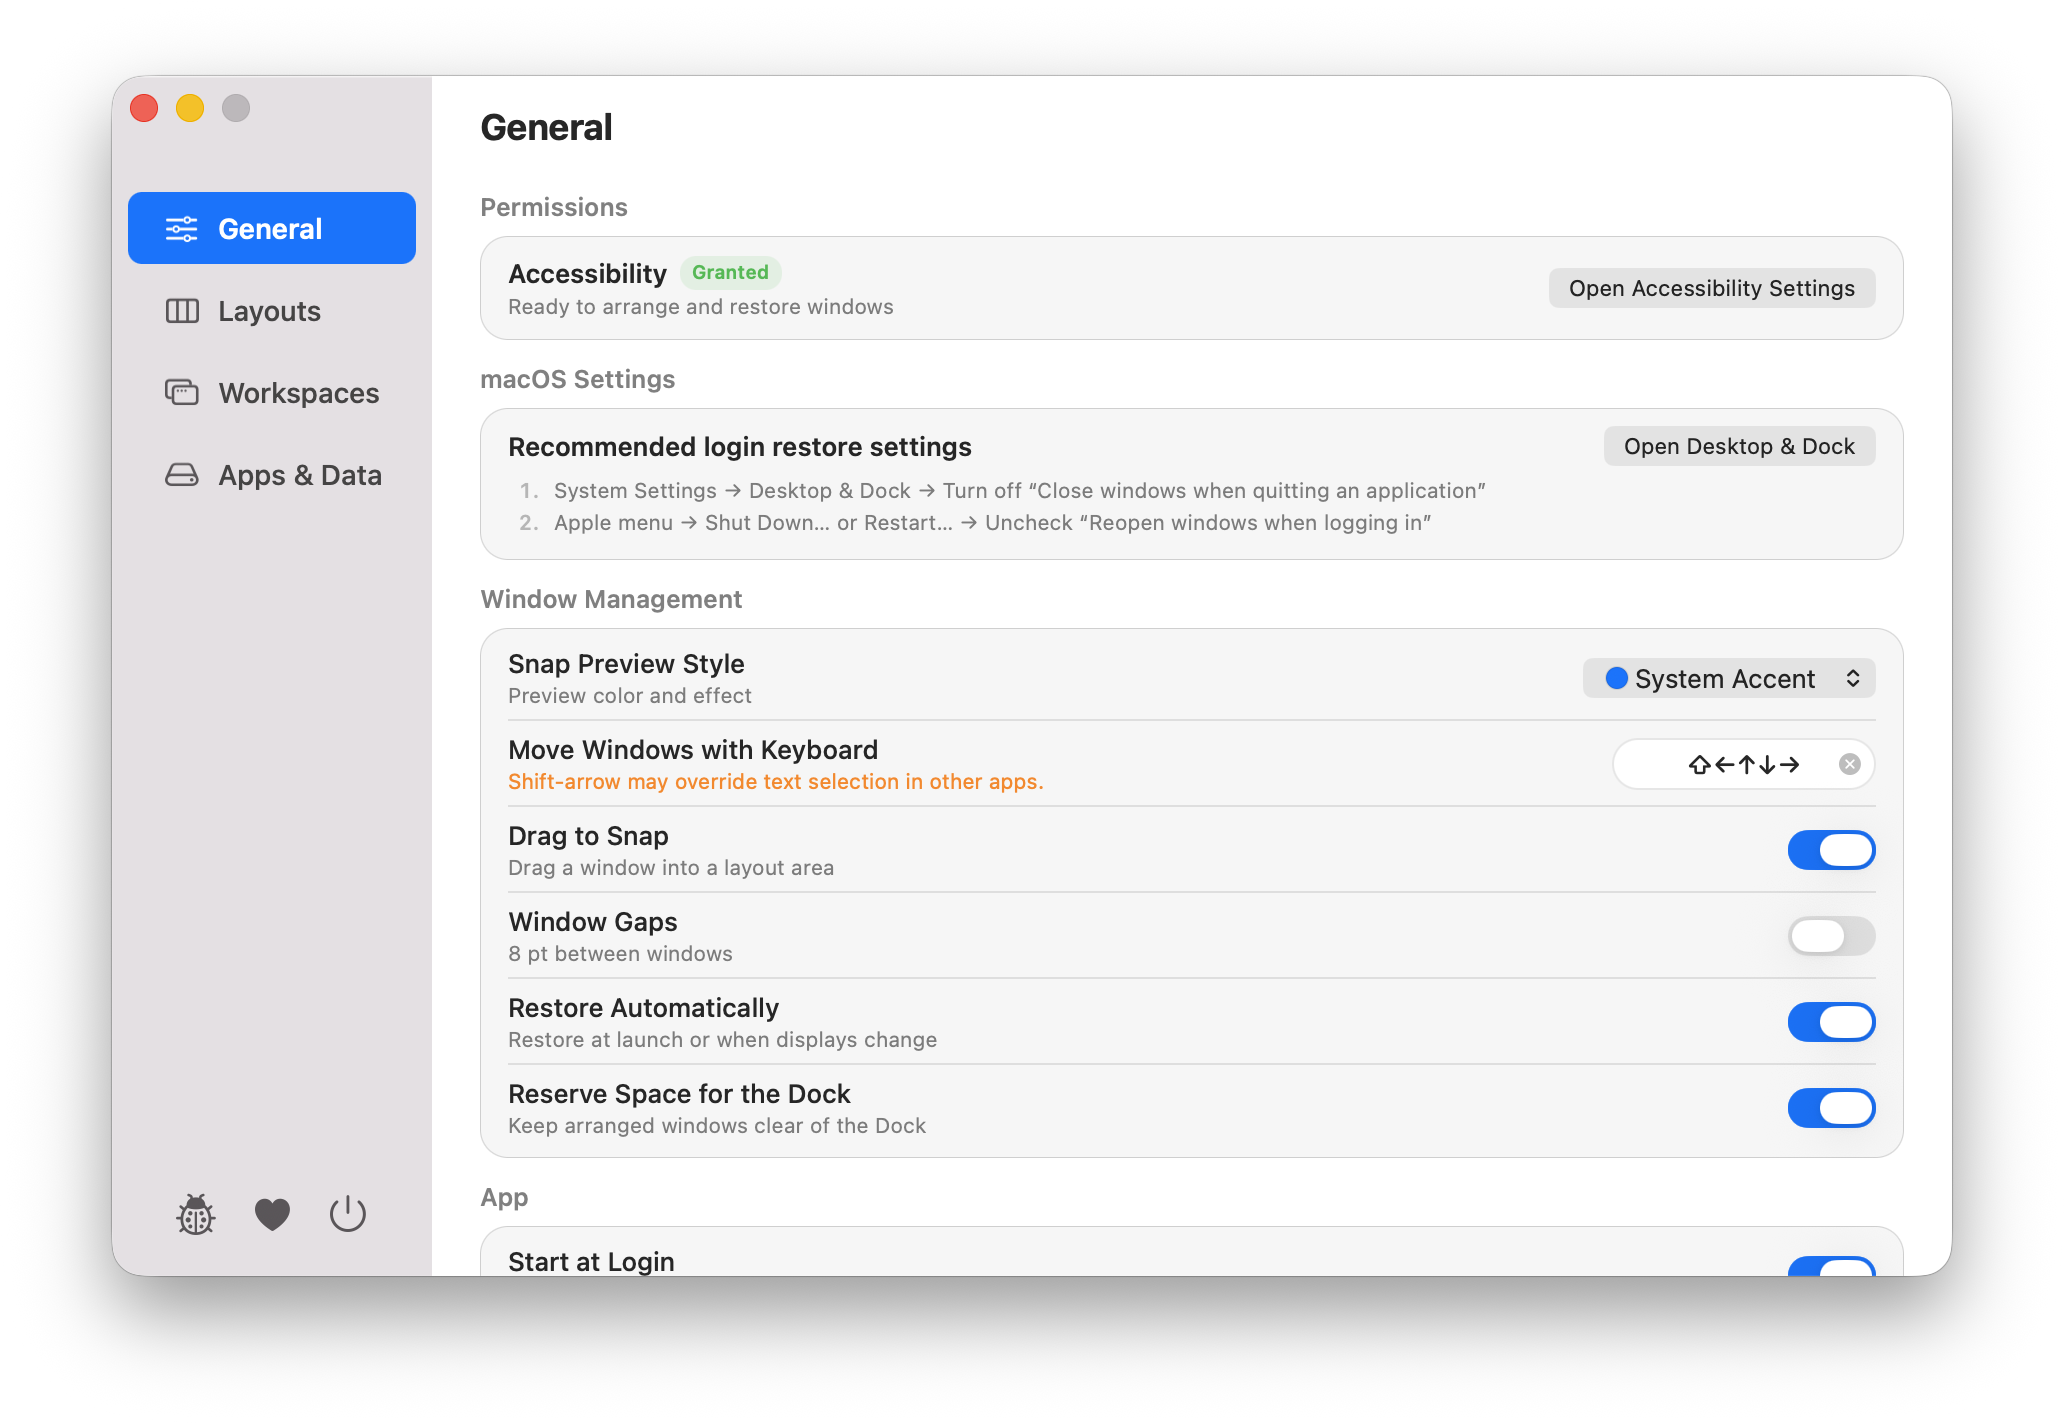
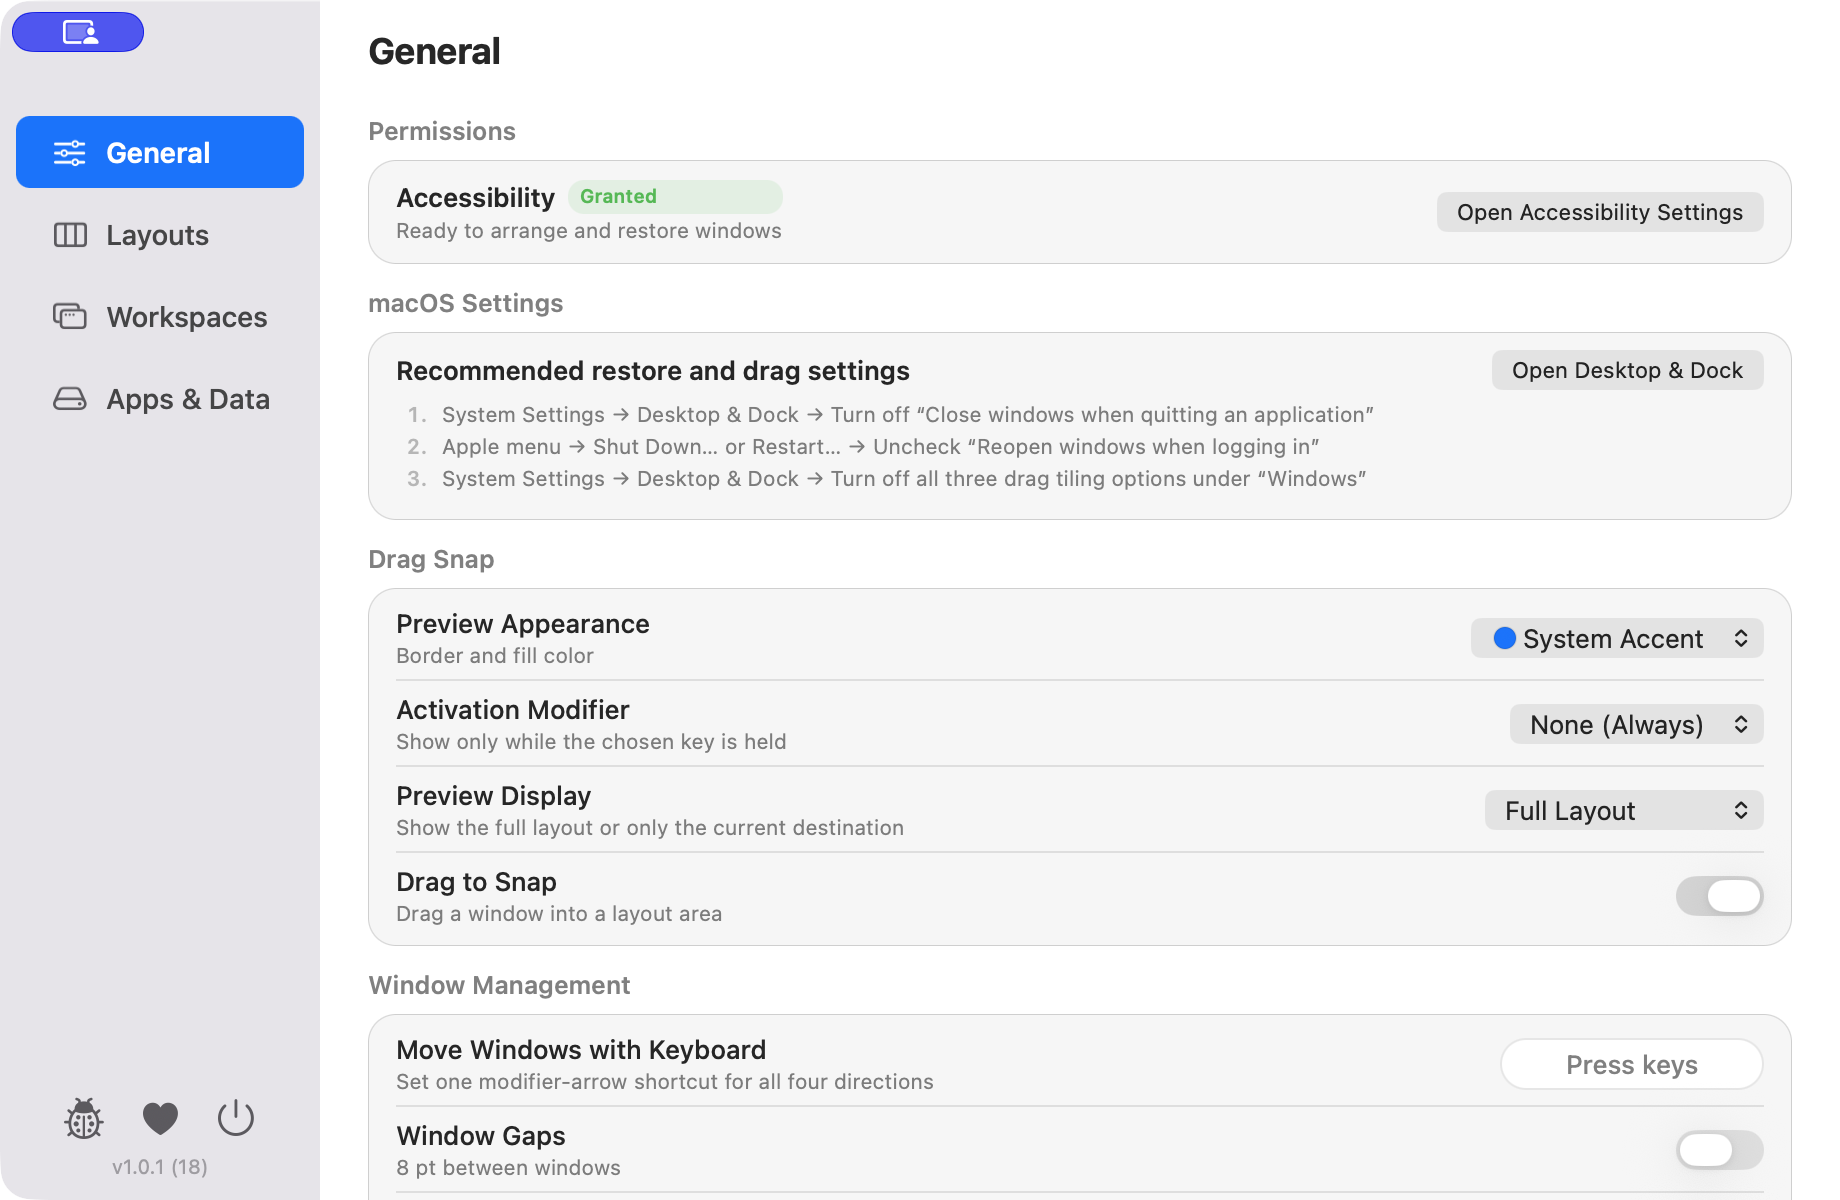
Update release materials for 1.0.1
Refresh the download links, feature summary, bug report version example, and General settings screenshots for Build 18.

Changed region(s): [[0.0, 0.0, 0.9603, 1.0]]

diff --git a/README.md b/README.md
@@ -4,7 +4,7 @@
 
 A macOS menu bar app for arranging windows and restoring an entire workspace in one action.
 
-[Download This is a Window 1.0.0](https://github.com/4celain/this-is-a-window/releases/download/v1.0.0/this-is-a-window-1.0.0-build.17-arm64.dmg) · [View all releases](https://github.com/4celain/this-is-a-window/releases)
+[Download This is a Window 1.0.1](https://github.com/4celain/this-is-a-window/releases/download/v1.0.1/this-is-a-window-1.0.1-build.18-arm64.dmg) · [View all releases](https://github.com/4celain/this-is-a-window/releases)
 
 Requirements: macOS 14 or later · Apple Silicon
 
@@ -22,7 +22,7 @@ Requirements: macOS 14 or later · Apple Silicon
 
 | Area | Included |
 | --- | --- |
-| Window layouts | Display-compatible presets · drag to snap · optional 8 pt gaps · Dock-aware placement |
+| Window layouts | Display-compatible presets · drag to snap with an optional activation modifier · full or destination-only preview · optional 8 pt gaps · Dock-aware placement |
 | Keyboard | Move the focused window through adjacent preset zones with a modifier key and arrow keys |
 | Workspaces | Save, update, and restore · display-specific layouts · exclude saved apps |
 | Multiple windows | Conservatively match supported windows from the same app |
@@ -78,7 +78,7 @@ All features are free. If the app is useful, you can support development with a 
 
 창을 정해진 위치에 배치하고 저장한 작업공간 전체를 한 번에 복원하는 macOS 메뉴 막대 앱입니다.
 
-[This is a Window 1.0.0 다운로드](https://github.com/4celain/this-is-a-window/releases/download/v1.0.0/this-is-a-window-1.0.0-build.17-arm64.dmg) · [모든 릴리스 보기](https://github.com/4celain/this-is-a-window/releases)
+[This is a Window 1.0.1 다운로드](https://github.com/4celain/this-is-a-window/releases/download/v1.0.1/this-is-a-window-1.0.1-build.18-arm64.dmg) · [모든 릴리스 보기](https://github.com/4celain/this-is-a-window/releases)
 
 지원 환경: macOS 14 이상 · Apple Silicon
 
@@ -96,7 +96,7 @@ All features are free. If the app is useful, you can support development with a 
 
 | 영역 | 지원 내용 |
 | --- | --- |
-| 창 배치 | 모니터 환경에 맞는 고정 프리셋 · 드래그 배치 · 선택적 8 pt 간격 · Dock 대응 |
+| 창 배치 | 모니터 환경에 맞는 고정 프리셋 · 선택적 활성 보조키로 드래그 배치 · 전체 또는 도착지점 미리보기 · 선택적 8 pt 간격 · Dock 대응 |
 | 키보드 | 보조키와 방향키로 현재 창을 인접한 프리셋 영역으로 이동 |
 | 작업공간 | 저장·업데이트·복원 · 모니터 환경별 배치 · 저장된 앱 제외 |
 | 여러 창 | 같은 앱에서 지원되는 여러 창을 보수적으로 구분 |
